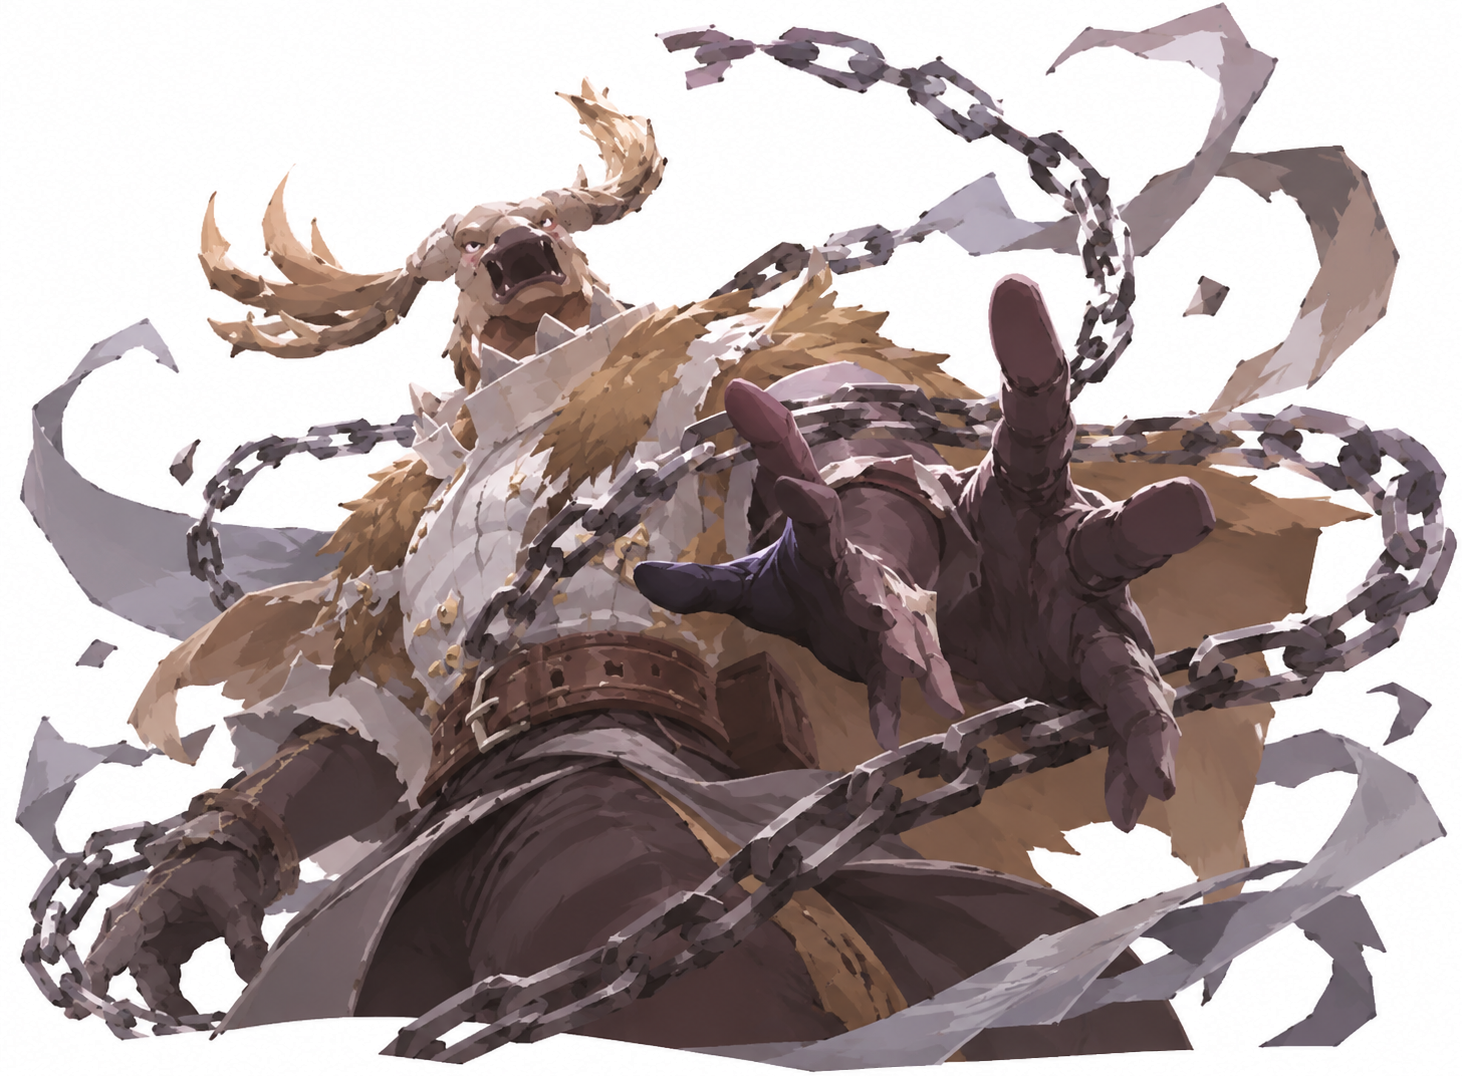
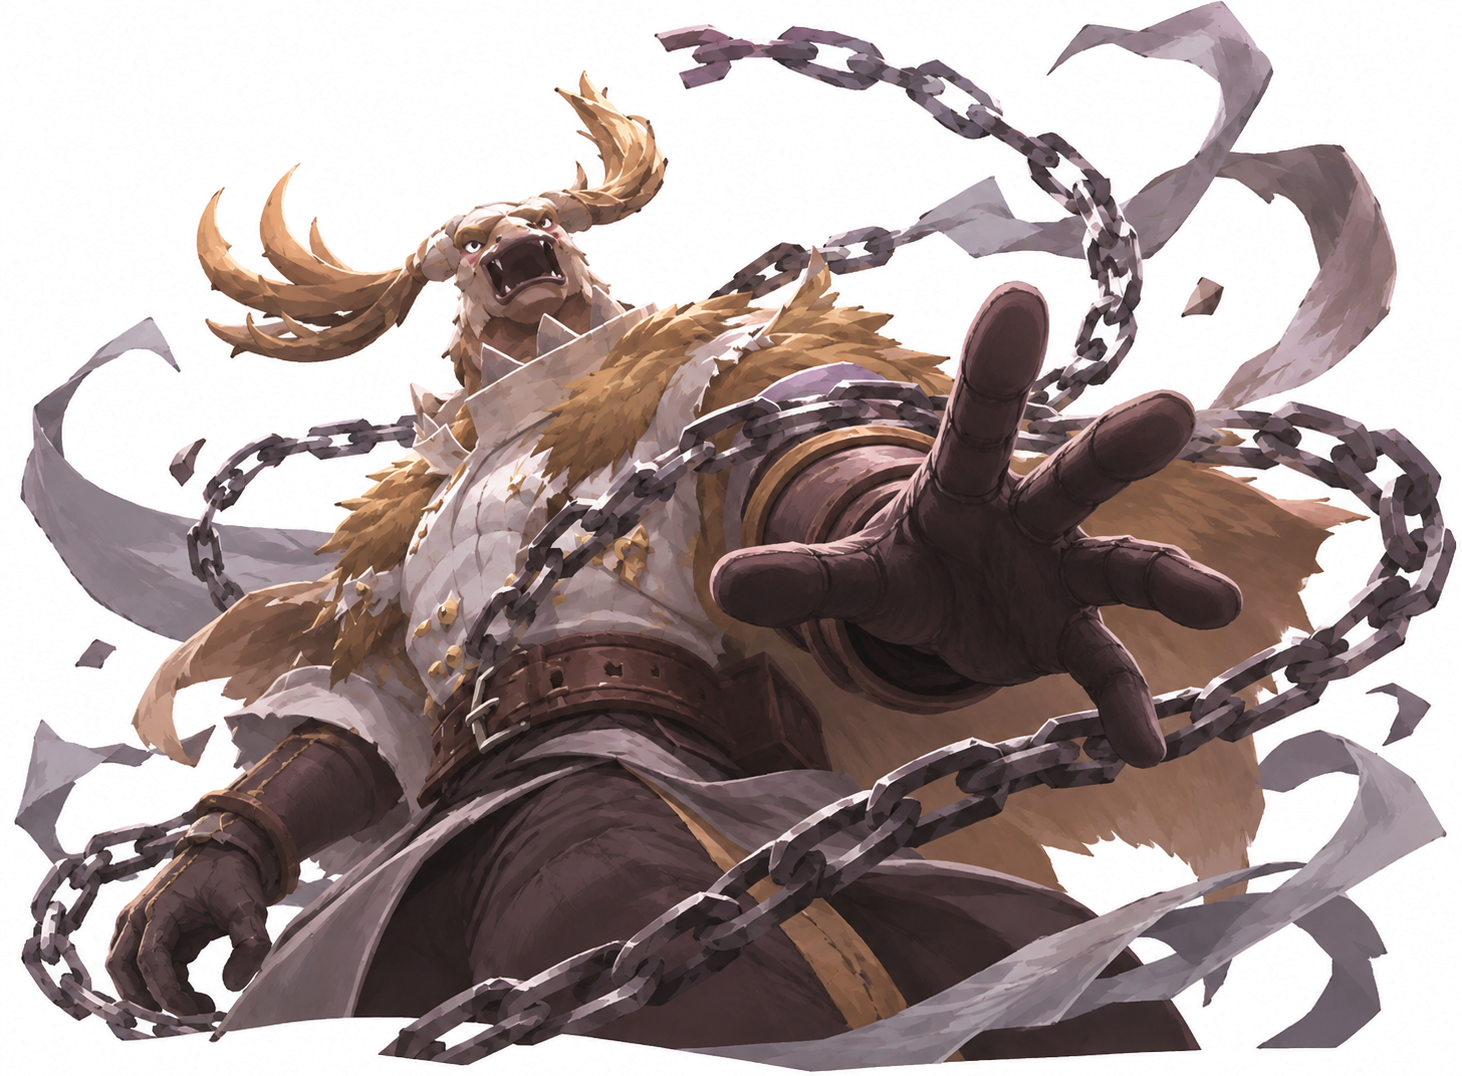
[FE] 사냥터지기 일러스트를 새 그림(원본 PNG)으로 바꿈 — 누끼: 이마·머리 위 흰 털과 흰 셔츠가 배경으로 빠지지 않게 지킬 칸(칸 안에서는 새하얀 배경만 빠지게 해서 네모 자국 없음), 쇠사슬 고리 속 흰 구멍은 뺌

diff --git a/Assets/Scripts/UI/Editor/IllustrationImporter.cs b/Assets/Scripts/UI/Editor/IllustrationImporter.cs
@@ -23,11 +23,12 @@ namespace Project1.UI.Editor
         // 얼굴이 아주 창백해 흰 배경과 거의 이어진 그림 — 살색 지키기를 켠다(분홍 연기·붉은 리본이 있는 그림에 켜면 그쪽이 덜 빠지므로 필요한 그림만).
         private static readonly HashSet<string> SkinProtectIds = new() { "Survivor_Doctor" };
         // 갇힌 흰 배경으로 볼 크기(픽셀 수)를 그림마다 다르게 — 사냥터지기: 흰 셔츠(넓음)는 남기고 쇠사슬 고리 속 작은 흰 구멍만 뺀다.
-        private static readonly Dictionary<string, (int min, int max)> EnclosedRanges = new() { ["Hunter_Gamekeeper"] = (20, 8000) };
-        // 지킬 칸(그림 위쪽 기준 픽셀 x, y, 너비, 높이) — 사냥터지기: 가슴의 흰 셔츠(목깃부터 허리띠 위까지).
-        private static readonly Dictionary<string, RectInt[]> ProtectRects = new() { ["Hunter_Gamekeeper"] = new[] { new RectInt(456, 316, 124, 66), new RectInt(470, 382, 250, 66), new RectInt(426, 448, 294, 202) } };
+        private static readonly Dictionary<string, (int min, int max)> EnclosedRanges = new() { ["Hunter_Gamekeeper"] = (20, int.MaxValue) };
+        // 지킬 칸(그림 위쪽 기준 픽셀 x, y, 너비, 높이) — 사냥터지기: 이마(뿔 사이 흰 털)와 가슴의 흰 셔츠(목깃부터 허리띠 위까지).
+        private static readonly Dictionary<string, RectInt[]> ProtectRects = new() { ["Hunter_Gamekeeper"] = new[] { new RectInt(452, 198, 150, 132), new RectInt(464, 330, 106, 60), new RectInt(410, 390, 300, 250) } };
         private const float PureWhite = 0.975f;  // 갇힌 흰 배경을 찾을 때: 이만큼 새하얀 픽셀이
         private const int EnclosedMinArea = 2000; // 이만큼 넓게 뭉쳐 있으면 배경
+        private const float ProtectWhite = 0.99f; // 지킬 칸 안에서도 이만큼 새하얀 픽셀은 배경으로 본다
 
         public override uint GetVersion() => 6;
 
@@ -115,27 +116,32 @@ namespace Project1.UI.Editor
                        || (protectSkin && c.r - Mathf.Max(c.g, c.b) >= SkinMin * 255f && lum[i] < PureWhite); // 창백한 얼굴이 흰 배경과 이어진 그림만(SkinProtectIds): 분홍기 도는 살색을 지킨다
             }
 
-            // 지킬 칸(그림 위쪽 기준 픽셀 좌표): 흰 옷처럼 흰 배경과 이어져 빠지면 안 되는 곳
+            // 지킬 칸(그림 위쪽 기준 픽셀 좌표): 흰 옷·흰 털처럼 흰 배경과 이어져 빠지면 안 되는 곳.
+            // 칸 안에서는 새하얀(ProtectWhite 이상) 배경만 번져 들어가고, 옅은 흰색(옷·털)은 막는다 — 칸 모양이 네모로 남지 않게.
+            var prot = new bool[n];
             if (protect != null)
                 foreach (var r in protect)
                     for (int y = Mathf.Max(0, r.yMin); y < Mathf.Min(h, r.yMax); y++)
                         for (int x = Mathf.Max(0, r.xMin); x < Mathf.Min(w, r.xMax); x++)
-                            warm[(h - 1 - y) * w + x] = true;
+                            prot[(h - 1 - y) * w + x] = true;
+            bool Guarded(int i) => warm[i] || (prot[i] && lum[i] < ProtectWhite);
+            var noEnclosed = new bool[n];
+            for (int i = 0; i < n; i++) noEnclosed[i] = warm[i] || prot[i];
 
             var bg = new bool[n];
             var queue = new int[n];
             int head = 0, tail = 0;
             void Seed(int i)
             {
-                if (!bg[i] && !warm[i] && lum[i] >= SeedMin) { bg[i] = true; queue[tail++] = i; }
+                if (!bg[i] && !Guarded(i) && lum[i] >= SeedMin) { bg[i] = true; queue[tail++] = i; }
             }
             for (int x = 0; x < w; x++) { Seed(x); Seed((h - 1) * w + x); }
             for (int y = 0; y < h; y++) { Seed(y * w); Seed(y * w + w - 1); }
-            SeedEnclosedWhite(lum, warm, w, h, Seed, enclosedMin, enclosedMax);
+            SeedEnclosedWhite(lum, noEnclosed, w, h, Seed, enclosedMin, enclosedMax);
 
             void Spread(int from, int j)
             {
-                if (bg[j] || warm[j] || lum[j] < FloodMin || Mathf.Abs(lum[j] - lum[from]) > MaxStep) return;
+                if (bg[j] || Guarded(j) || lum[j] < FloodMin || Mathf.Abs(lum[j] - lum[from]) > MaxStep) return;
                 bg[j] = true;
                 queue[tail++] = j;
             }
